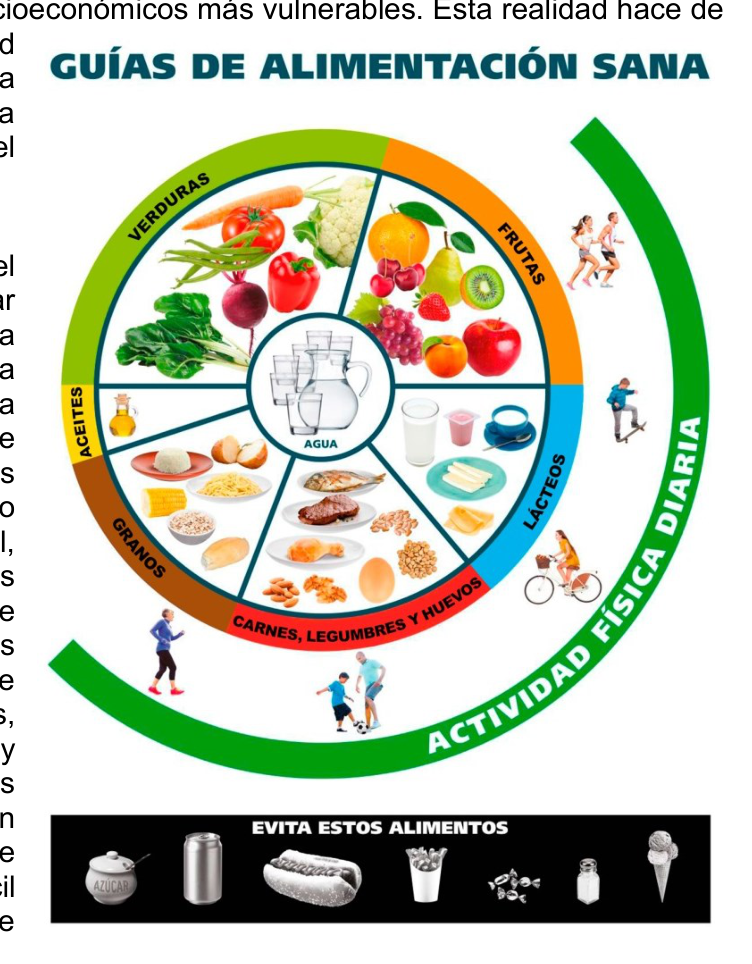
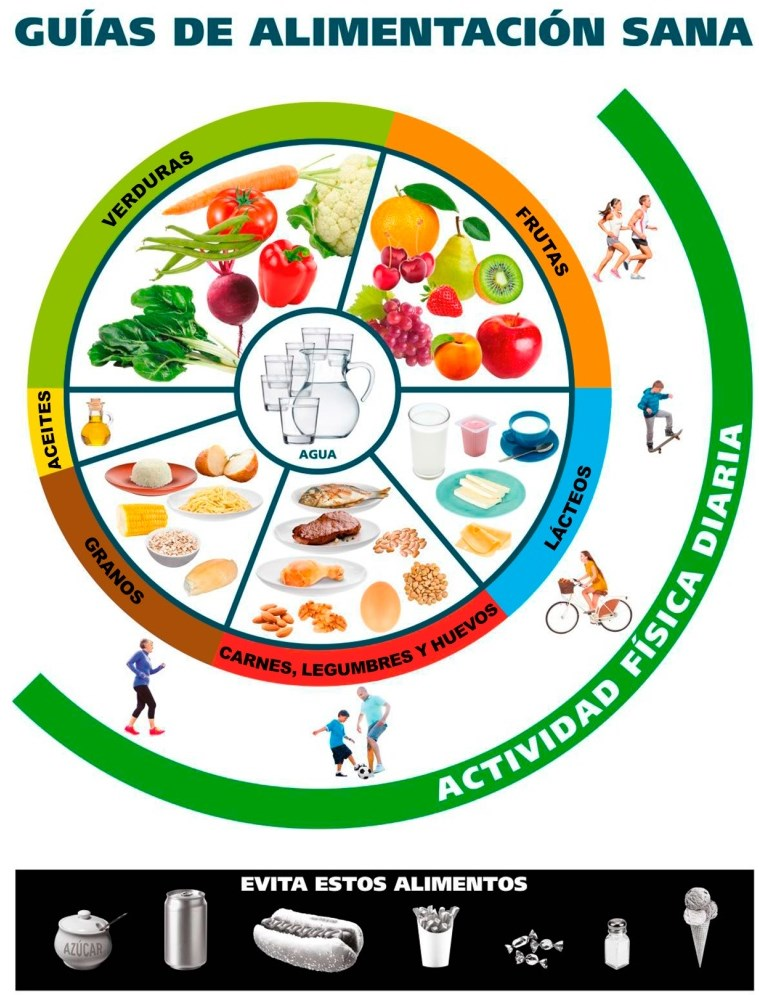
fix(paes-lectora-2023): distribucion exacta de imagenes en texto y sustitucion con imagen completa de MINSAL

diff --git a/src/pages/BancoPreguntasPage.tsx b/src/pages/BancoPreguntasPage.tsx
@@ -929,11 +929,11 @@ export const BancoPreguntasPage: React.FC<BancoPreguntasPageProps> = ({
 
                 {/* Optional Image (solo si no está insertada inline con [IMAGEN] o Markdown) */}
                 {pregunta.imagenUrl && !(/\[(IMAGEN|FIGURA)\]/i.test(pregunta.enunciado || '') || pregunta.enunciado?.includes('![')) && (
-                  <div className="p-3 bg-white dark:bg-slate-950 rounded-2xl border border-slate-200 dark:border-slate-800 flex justify-center overflow-hidden shadow-sm max-w-md my-2">
+                  <div className="p-3 bg-white dark:bg-slate-950 rounded-2xl border border-slate-200 dark:border-slate-800 flex justify-center overflow-hidden shadow-sm max-w-2xl my-3">
                     <img
                       src={resolveImageUrl(pregunta.imagenUrl)}
                       alt="Figura / Gráfico"
-                      className="max-h-60 w-auto object-contain rounded-lg"
+                      className="max-h-[500px] w-auto object-contain rounded-lg"
                     />
                   </div>
                 )}

diff --git a/src/components/common/EnunciadoRenderer.tsx b/src/components/common/EnunciadoRenderer.tsx
@@ -176,7 +176,7 @@ export const EnunciadoRenderer: React.FC<EnunciadoRendererProps> = ({
           <img
             src={resolvedSrc}
             alt={alt || 'Figura'}
-            className="max-h-48 max-w-full rounded-lg border border-slate-200 dark:border-slate-800 shadow-sm bg-white dark:bg-slate-900 object-contain inline-block p-1"
+            className="max-h-80 max-w-full rounded-xl border border-slate-200 dark:border-slate-800 shadow-sm bg-white dark:bg-slate-900 object-contain inline-block p-1.5"
             loading="lazy"
           />
         </span>
